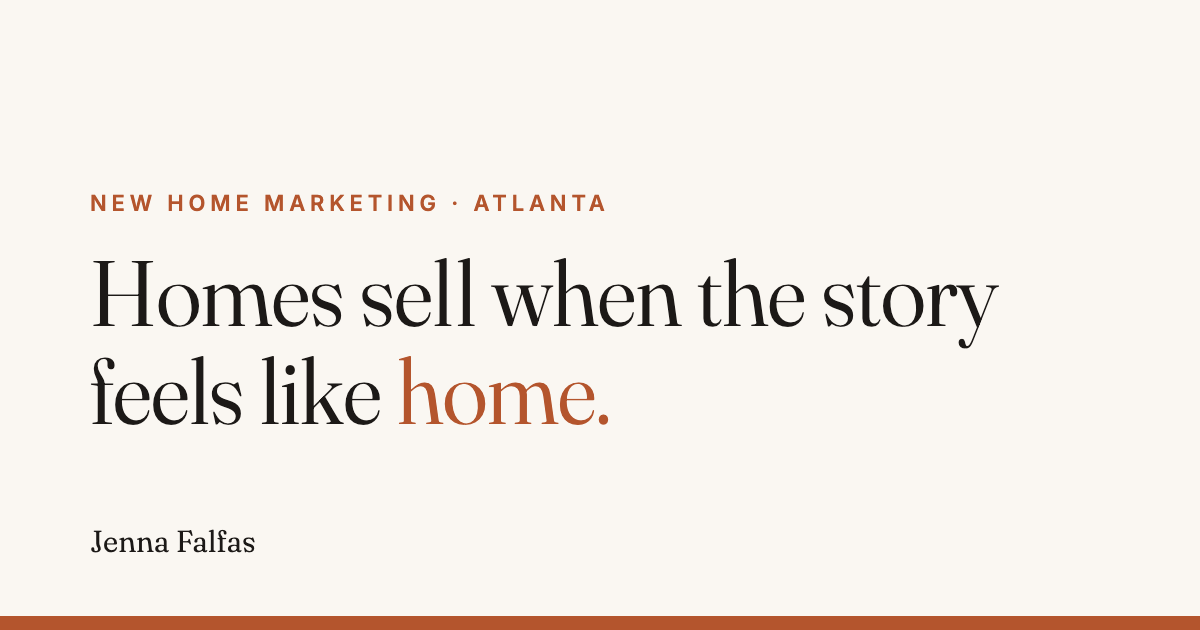
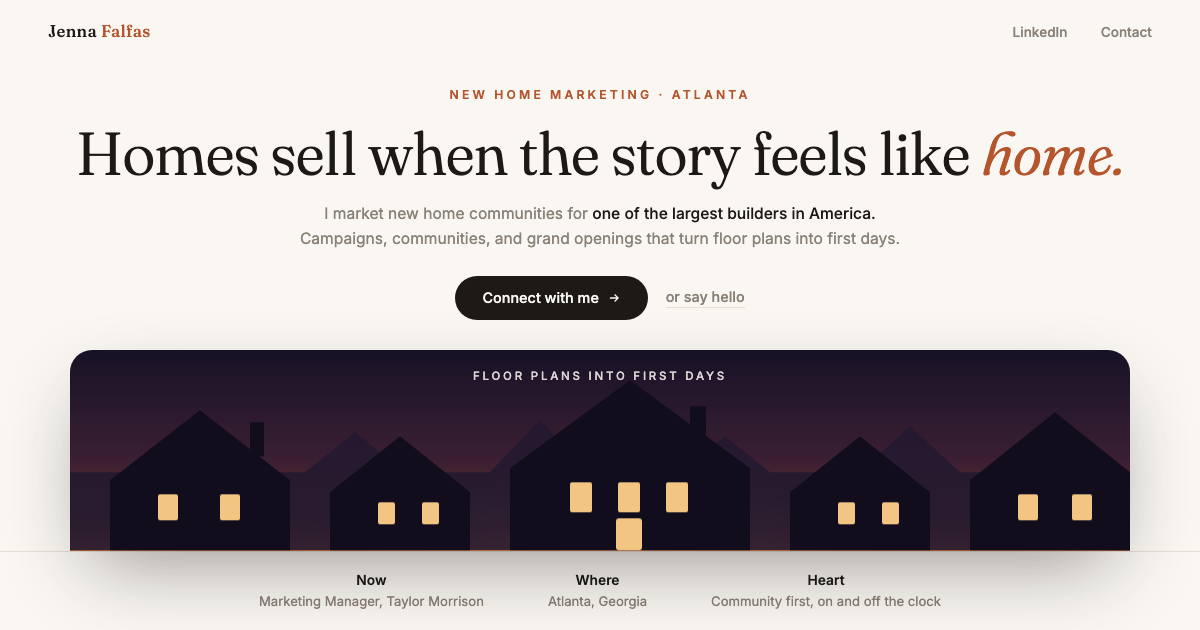
Winston pass: centered one line zooming hero, dusk community board with authored motion

diff --git a/index.html b/index.html
@@ -19,86 +19,175 @@
 <meta name="twitter:image" content="https://jennafalfas.github.io/og.png">
 <link rel="preconnect" href="https://fonts.googleapis.com">
 <link rel="preconnect" href="https://fonts.gstatic.com" crossorigin>
-<link href="https://fonts.googleapis.com/css2?family=Fraunces:opsz,wght@9..144,340;9..144,560&family=Inter:wght@400;500;600&display=swap" rel="stylesheet">
+<link href="https://fonts.googleapis.com/css2?family=Fraunces:ital,opsz,wght@0,9..144,340;0,9..144,500;1,9..144,340&family=Inter:wght@400;500;600&display=swap" rel="stylesheet">
 <style>
   :root{
     --paper:#faf7f2; --ink:#1c1917; --clay:#b4552d; --stone:#8a8177; --line:#e5dfd5;
+    --dusk1:#171226; --dusk2:#3b1f33; --ember:#c96a3b; --glowc:#ffcf8a;
   }
   *{margin:0;padding:0;box-sizing:border-box}
+  html{-webkit-text-size-adjust:100%; text-size-adjust:100%}
   body{
     background:var(--paper); color:var(--ink);
     font-family:'Inter',system-ui,sans-serif;
     min-height:100svh; display:flex; flex-direction:column;
+    overflow-x:hidden;
   }
   header{
     display:flex; justify-content:space-between; align-items:center;
-    padding:1.4rem 3rem; border-bottom:1px solid var(--line);
+    padding:1.3rem 3rem;
   }
   .mark{font-family:'Fraunces',serif; font-size:1.05rem; letter-spacing:.02em}
+  .mark b{color:var(--clay); font-weight:500}
   nav a{
     color:var(--stone); text-decoration:none; font-size:.85rem; font-weight:500;
-    margin-left:1.8rem; transition:color .2s;
+    margin-left:1.8rem; position:relative; transition:color .25s;
   }
-  nav a:hover{color:var(--clay)}
+  nav a::after{
+    content:""; position:absolute; left:0; bottom:-4px; height:1px; width:100%;
+    background:var(--clay); transform:scaleX(0); transform-origin:right;
+    transition:transform .3s cubic-bezier(.4,0,.2,1);
+  }
+  nav a:hover{color:var(--ink)}
+  nav a:hover::after{transform:scaleX(1); transform-origin:left}
   main{
-    flex:1; display:flex; flex-direction:column; justify-content:center;
-    padding:2.5rem 3rem; max-width:1200px; width:100%; margin:0 auto;
+    flex:1; display:flex; flex-direction:column; align-items:center;
+    padding:1.6rem 3rem 0; width:100%; max-width:1280px; margin:0 auto;
+    text-align:center; min-height:0;
   }
   .kicker{
-    color:var(--clay); font-size:.8rem; font-weight:600;
-    letter-spacing:.22em; text-transform:uppercase; margin-bottom:1.2rem;
+    color:var(--clay); font-size:.76rem; font-weight:600;
+    letter-spacing:.26em; text-transform:uppercase; margin-bottom:1.1rem;
   }
   h1{
     font-family:'Fraunces',serif; font-weight:340;
-    font-size:clamp(2.6rem,6.2vw,4.6rem); line-height:1.08;
-    max-width:17ch;
+    font-size:60px; line-height:1.1; letter-spacing:-.01em;
+    white-space:nowrap; width:100%; max-width:100%;
   }
-  h1 em{font-style:normal; color:var(--clay)}
+  h1 em{font-style:italic; color:var(--clay)}
   .sub{
-    margin-top:1.4rem; color:var(--stone);
-    font-size:clamp(1rem,1.4vw,1.15rem); line-height:1.6; max-width:60ch;
+    margin-top:1rem; color:var(--stone);
+    font-size:clamp(.95rem,1.3vw,1.12rem); line-height:1.6;
   }
   .sub span{display:block}
-  .cta{margin-top:2.2rem; display:flex; gap:1rem; align-items:center}
+  .sub b{color:var(--ink); font-weight:500}
+  .cta{margin-top:1.5rem; display:flex; gap:1.1rem; align-items:center; justify-content:center}
   .btn{
     background:var(--ink); color:var(--paper); text-decoration:none;
     padding:.85rem 1.7rem; border-radius:999px; font-size:.9rem; font-weight:500;
-    transition:background .2s;
+    display:inline-flex; align-items:center; gap:.5rem;
+    transition:background .25s, transform .25s, box-shadow .25s;
   }
-  .btn:hover{background:var(--clay)}
-  .quiet{color:var(--stone); text-decoration:none; font-size:.9rem; font-weight:500}
-  .quiet:hover{color:var(--ink)}
+  .btn svg{transition:transform .25s}
+  .btn:hover{background:var(--clay); transform:translateY(-1px); box-shadow:0 8px 24px rgba(180,85,45,.25)}
+  .btn:hover svg{transform:translateX(3px)}
+  .quiet{color:var(--stone); text-decoration:none; font-size:.9rem; font-weight:500; border-bottom:1px solid var(--line); padding-bottom:2px; transition:color .25s, border-color .25s}
+  .quiet:hover{color:var(--clay); border-color:var(--clay)}
+  /* the product: a community at dusk, floating over the ground */
+  .board{
+    margin-top:1.9rem; width:min(1060px,100%); flex:1; min-height:200px;
+    border-radius:22px 22px 0 0; position:relative; overflow:hidden;
+    background:linear-gradient(180deg,var(--dusk1) 0%,var(--dusk2) 55%,#6e3327 88%,var(--ember) 100%);
+    box-shadow:0 30px 80px -20px rgba(28,25,23,.45);
+  }
+  .board .glow{
+    position:absolute; left:50%; bottom:-16%; width:70%; height:60%;
+    transform:translateX(-50%);
+    background:radial-gradient(ellipse at center bottom, rgba(255,178,110,.55), transparent 65%);
+  }
+  .board svg{position:absolute; inset:0; width:100%; height:100%}
+  .board .cap{
+    position:absolute; top:1.15rem; left:50%; transform:translateX(-50%);
+    color:rgba(250,247,242,.85); font-size:.72rem; font-weight:500;
+    letter-spacing:.24em; text-transform:uppercase; white-space:nowrap;
+  }
+  .star{fill:#fff; opacity:.5; animation:tw 3.4s ease-in-out infinite}
+  .star:nth-of-type(2n){animation-delay:1.2s} .star:nth-of-type(3n){animation-delay:2.1s}
+  @keyframes tw{0%,100%{opacity:.15}50%{opacity:.6}}
+  .win{fill:var(--glowc); opacity:0}
+  @media (prefers-reduced-motion: no-preference){
+    .rise{opacity:0; transform:translateY(16px); animation:rise .7s cubic-bezier(.2,.6,.2,1) forwards}
+    .r2{animation-delay:.08s}.r3{animation-delay:.16s}.r4{animation-delay:.24s}.r5{animation-delay:.3s}
+    @keyframes rise{to{opacity:1; transform:none}}
+    .win{animation:on 1.1s ease forwards}
+    @keyframes on{to{opacity:.95}}
+  }
+  @media (prefers-reduced-motion: reduce){ .win{opacity:.95} }
   footer{
     border-top:1px solid var(--line);
-    padding:1.2rem 3rem;
-    display:flex; justify-content:space-between; gap:2rem;
+    padding:1.15rem 3rem;
+    display:flex; justify-content:center; gap:4rem;
+    background:var(--paper); text-align:center;
   }
-  .fact{font-size:.82rem; color:var(--stone); line-height:1.5}
+  .fact{font-size:.82rem; color:var(--stone); line-height:1.55}
   .fact b{display:block; color:var(--ink); font-weight:600; font-size:.86rem}
   @media(max-width:640px){
-    header,footer,main{padding-left:1.4rem;padding-right:1.4rem}
-    footer{flex-wrap:wrap; gap:1rem}
+    header,footer{padding-left:1.4rem;padding-right:1.4rem}
+    main{padding-left:1.4rem;padding-right:1.4rem}
+    footer{gap:1.4rem; flex-wrap:wrap}
   }
 </style>
 </head>
 <body>
 <header>
-  <div class="mark">Jenna Falfas</div>
+  <div class="mark">Jenna <b>Falfas</b></div>
   <nav>
     <a href="https://www.linkedin.com/in/jenna-falfas-372515150/">LinkedIn</a>
     <a href="mailto:falfasjenna@gmail.com">Contact</a>
   </nav>
 </header>
 <main>
-  <div class="kicker">New Home Marketing &middot; Atlanta</div>
-  <h1>Homes sell when the story feels like <em>home.</em></h1>
-  <p class="sub">
-    <span>I market new home communities for one of the largest builders in America.</span>
+  <div class="kicker rise">New Home Marketing &middot; Atlanta</div>
+  <h1 class="rise r2 fitline">Homes sell when the story feels like <em>home.</em></h1>
+  <p class="sub rise r3">
+    <span>I market new home communities for <b>one of the largest builders in America.</b></span>
     <span>Campaigns, communities, and grand openings that turn floor plans into first days.</span>
   </p>
-  <div class="cta">
-    <a class="btn" href="https://www.linkedin.com/in/jenna-falfas-372515150/">Connect with me</a>
+  <div class="cta rise r4">
+    <a class="btn" href="https://www.linkedin.com/in/jenna-falfas-372515150/">Connect with me
+      <svg width="14" height="14" viewBox="0 0 24 24" fill="none" stroke="currentColor" stroke-width="2.2"><path d="M5 12h14M13 6l6 6-6 6"/></svg>
+    </a>
     <a class="quiet" href="mailto:falfasjenna@gmail.com">or say hello</a>
+  </div>
+  <div class="board rise r5" aria-label="A neighborhood at dusk, windows lighting up one by one">
+    <div class="glow"></div>
+    <svg viewBox="0 0 1060 340" preserveAspectRatio="xMidYMax slice" aria-hidden="true">
+      <circle class="star" cx="120" cy="52" r="1.6"/><circle class="star" cx="300" cy="34" r="1.2"/>
+      <circle class="star" cx="480" cy="60" r="1.5"/><circle class="star" cx="660" cy="30" r="1.2"/>
+      <circle class="star" cx="840" cy="55" r="1.6"/><circle class="star" cx="960" cy="80" r="1.2"/>
+      <circle class="star" cx="210" cy="95" r="1.1"/><circle class="star" cx="740" cy="90" r="1.4"/>
+      <!-- back ridge of rooftops -->
+      <path d="M0 340 V262 L60 262 L110 214 L160 262 L235 262 L285 222 L335 262 L420 262 L470 210 L520 262 L610 262 L655 226 L700 262 L790 262 L840 216 L890 262 L980 262 L1020 234 L1060 262 V340 Z"
+        fill="#241a30" opacity=".9"/>
+      <!-- front houses -->
+      <g fill="#120d1c">
+        <path d="M40 340 V270 L130 200 L220 270 V340 Z"/>
+        <path d="M260 340 V282 L330 226 L400 282 V340 Z"/>
+        <path d="M440 340 V258 L560 170 L680 258 V340 Z"/>
+        <path d="M720 340 V282 L790 226 L860 282 V340 Z"/>
+        <path d="M900 340 V270 L985 202 L1060 262 V340 Z"/>
+      </g>
+      <!-- chimneys -->
+      <rect x="180" y="212" width="14" height="34" fill="#120d1c"/>
+      <rect x="620" y="196" width="16" height="42" fill="#120d1c"/>
+      <!-- windows, lighting one by one -->
+      <g>
+        <rect class="win" style="animation-delay:.6s"  x="88"  y="284" width="20" height="26" rx="2"/>
+        <rect class="win" style="animation-delay:2.1s" x="150" y="284" width="20" height="26" rx="2"/>
+        <rect class="win" style="animation-delay:1.2s" x="308" y="292" width="17" height="22" rx="2"/>
+        <rect class="win" style="animation-delay:2.8s" x="352" y="292" width="17" height="22" rx="2"/>
+        <rect class="win" style="animation-delay:.9s"  x="500" y="272" width="22" height="30" rx="2"/>
+        <rect class="win" style="animation-delay:1.8s" x="548" y="272" width="22" height="30" rx="2"/>
+        <rect class="win" style="animation-delay:3.4s" x="596" y="272" width="22" height="30" rx="2"/>
+        <rect class="win" style="animation-delay:2.4s" x="768" y="292" width="17" height="22" rx="2"/>
+        <rect class="win" style="animation-delay:1.5s" x="812" y="292" width="17" height="22" rx="2"/>
+        <rect class="win" style="animation-delay:3.1s" x="948" y="284" width="20" height="26" rx="2"/>
+        <rect class="win" style="animation-delay:3.8s" x="1002" y="284" width="20" height="26" rx="2"/>
+        <!-- doors with porch light -->
+        <rect class="win" style="animation-delay:4.2s" x="546" y="308" width="26" height="32" rx="3" opacity="0"/>
+      </g>
+    </svg>
+    <div class="cap">Floor plans into first days</div>
   </div>
 </main>
 <footer>
@@ -107,6 +196,23 @@
   <div class="fact"><b>Heart</b>Community first, on and off the clock</div>
 </footer>
 <script>
+/* headline fitter (fleet rule: ZOOM HEADLINES TO FIT). A display heading is
+   always ONE zooming line, newspaper style: shrink the font only as needed. */
+(function () {
+  var BASE = 60;
+  function fitLines() {
+    document.querySelectorAll(".fitline").forEach(function (el) {
+      el.style.fontSize = BASE + "px";
+      var scale = el.clientWidth / el.scrollWidth;
+      if (scale < 1) el.style.fontSize = Math.floor(BASE * scale * 0.98) + "px";
+    });
+  }
+  addEventListener("resize", fitLines);
+  addEventListener("orientationchange", fitLines);
+  addEventListener("load", fitLines);
+  if (document.fonts && document.fonts.ready) document.fonts.ready.then(fitLines);
+  fitLines();
+})();
 /* one-screen fitter (fleet rule: ONE-SCREEN.md). A one-page opening renders
    with zero scroll on desktop. If content runs a little over, the page scales
    itself; far over is a content problem, split it into tabs instead. */
